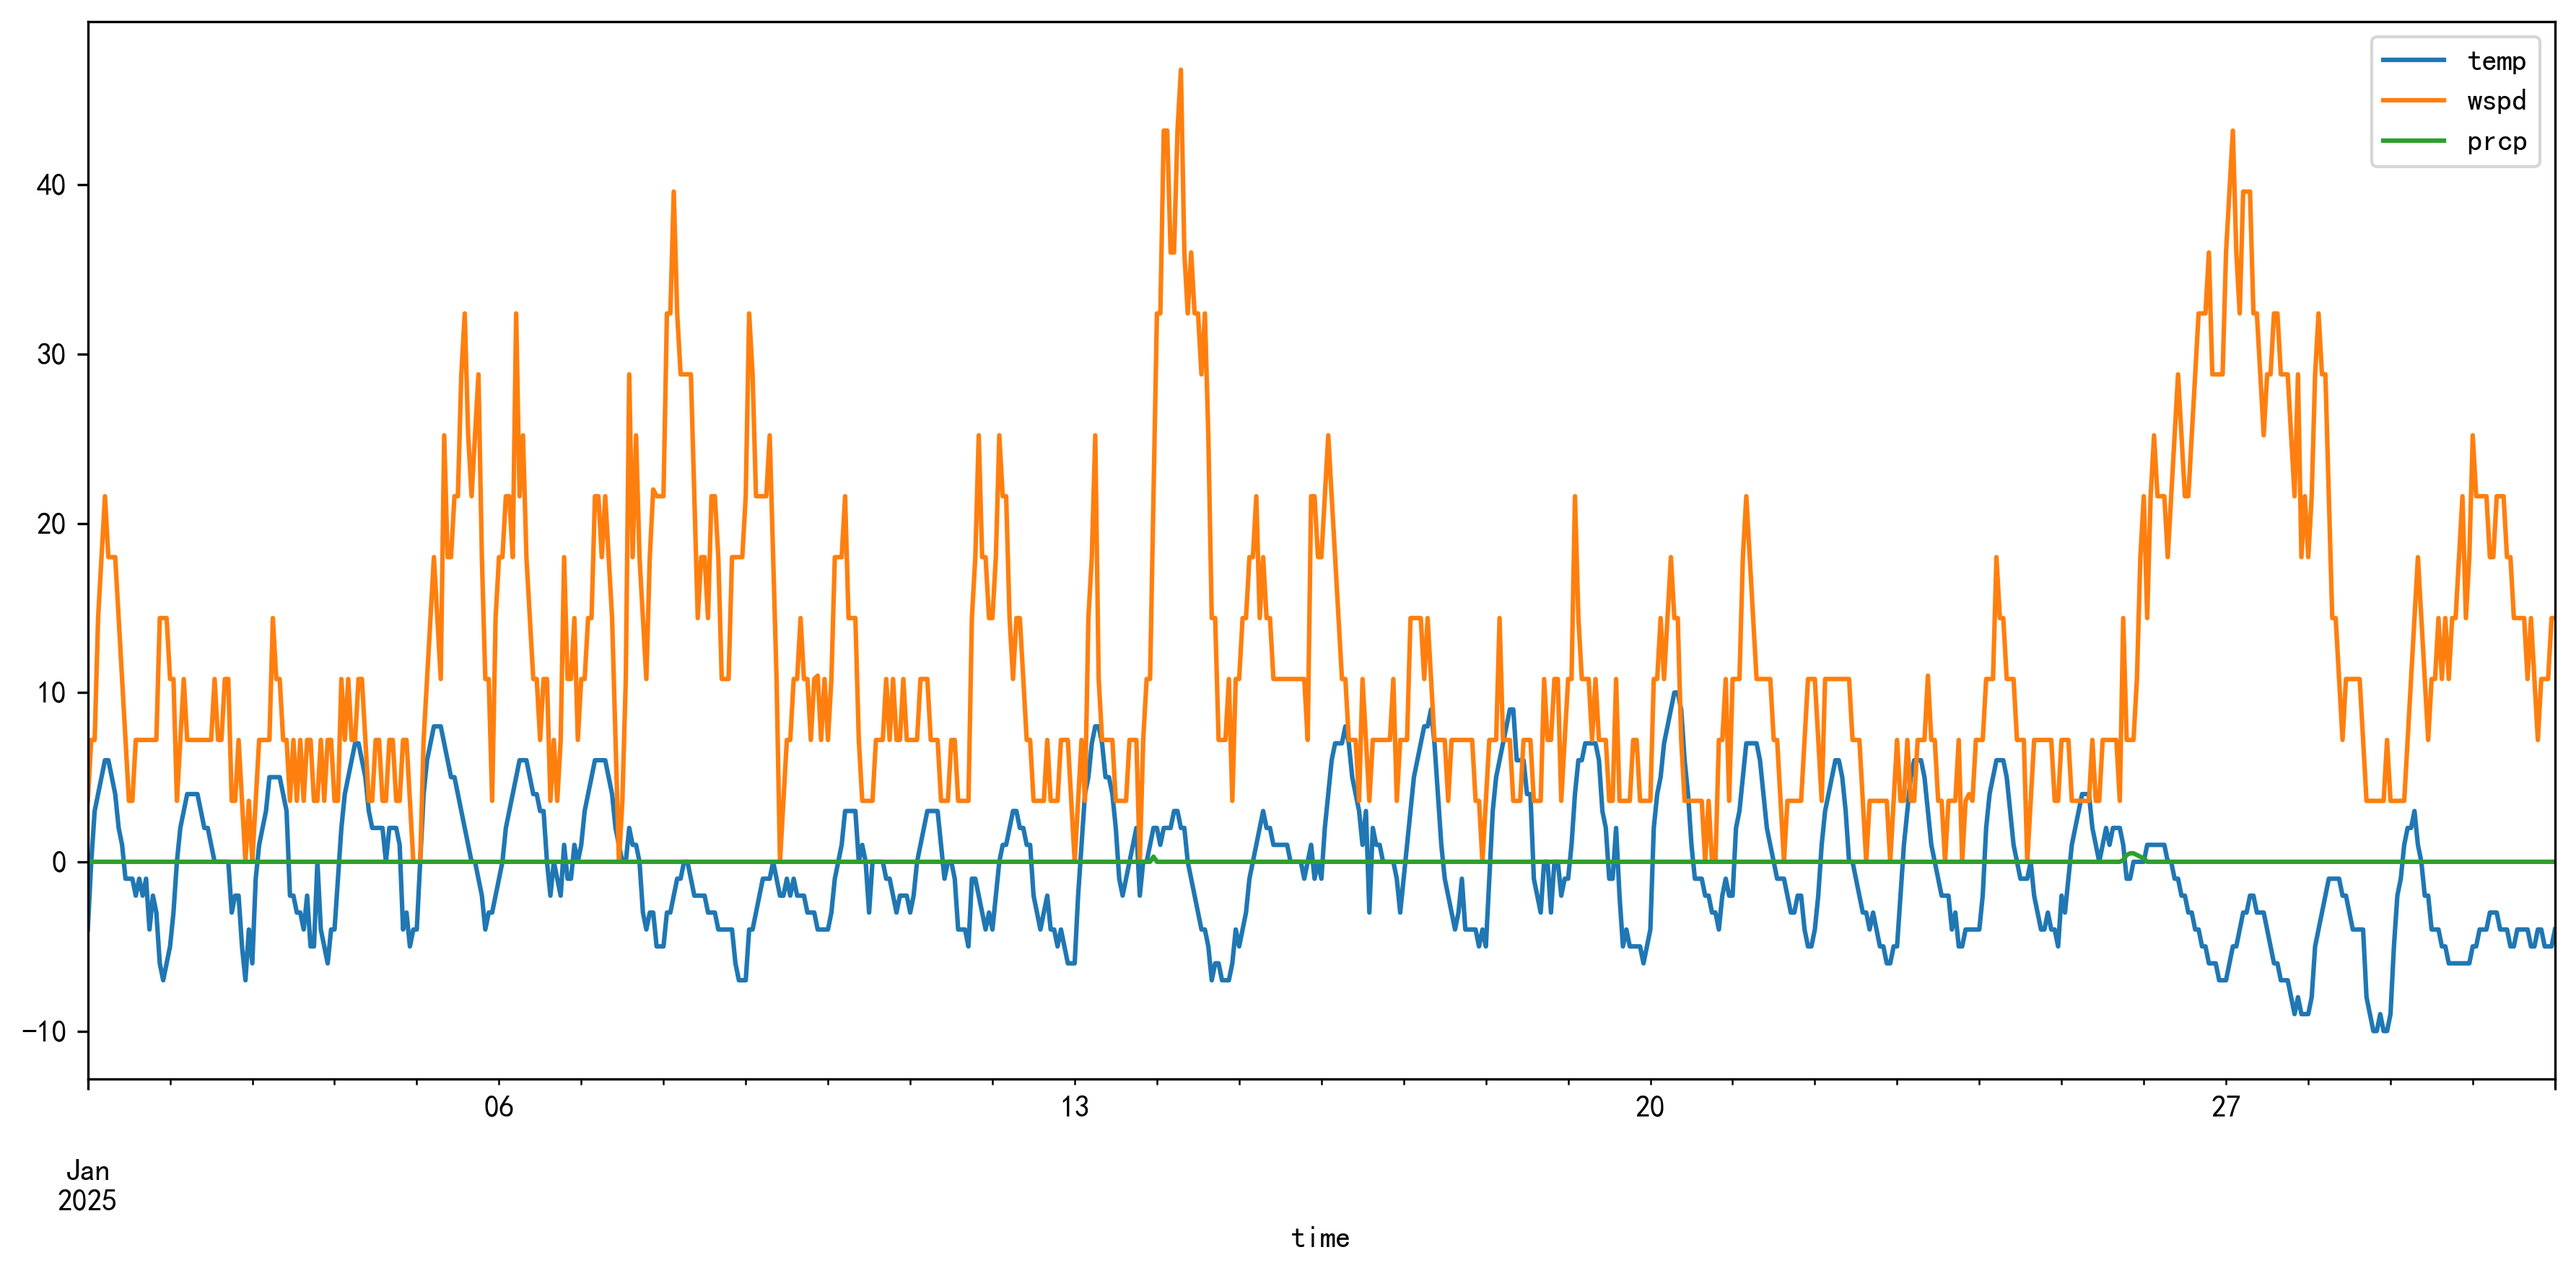
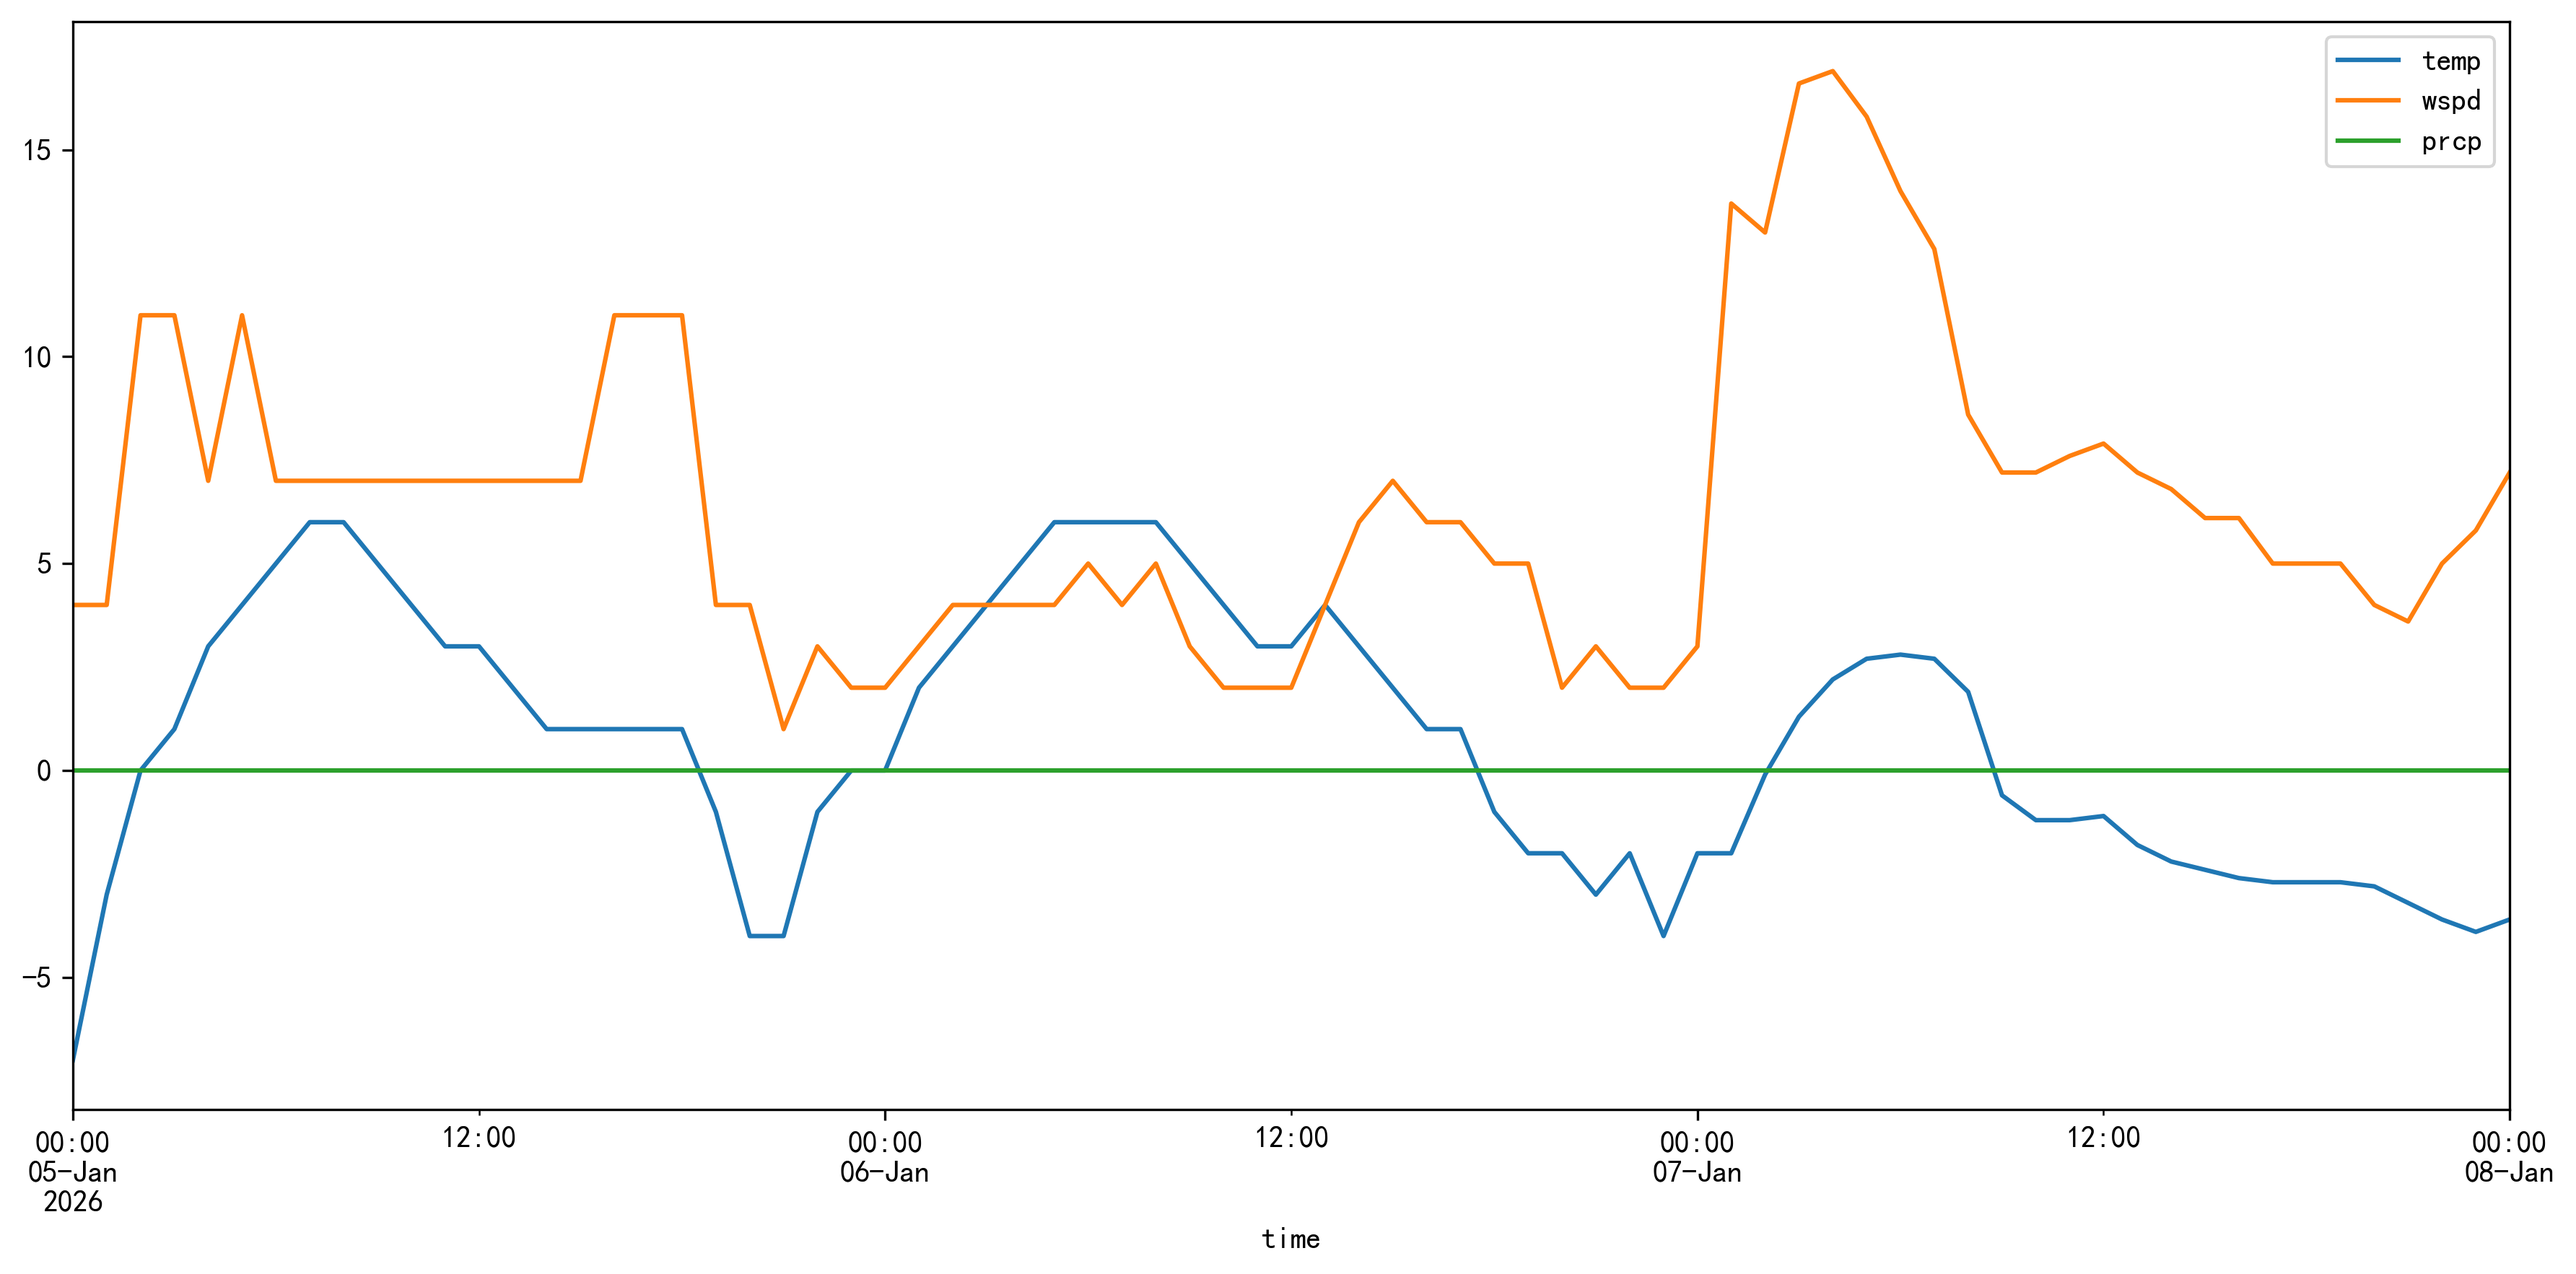
daily

diff --git a/utils/memestat_helper.py b/utils/memestat_helper.py
@@ -1,0 +1,81 @@
+import os
+import csv
+from datetime import datetime, timedelta
+import pandas as pd
+from meteostat import Point, Daily
+
+# 设置目标城市的经纬度（示例：北京 北纬39.9042，东经116.4074）
+TARGET_LOCATION = Point(39.9042, 116.4074)
+# CSV 文件保存路径
+CSV_FILE_PATH = "weather_data.csv"
+
+def get_and_save_weather_data():
+    """
+    获取天气数据并增量保存到CSV文件
+    首次运行获取最近两年数据，后续运行只获取增量日期数据
+    """
+    # 1. 确定数据获取的起始和结束日期
+    end_date = datetime.now().date()  # 结束日期为当前日期
+    start_date = None
+
+    # 检查CSV文件是否存在，判断是否需要增量更新
+    if os.path.exists(CSV_FILE_PATH):
+        try:
+            # 读取已有数据，获取最新日期
+            df = pd.read_csv(CSV_FILE_PATH)
+            # 确保日期列是datetime格式
+            df['time'] = pd.to_datetime(df['time']).dt.date
+            # 获取已有数据的最大日期
+            max_exist_date = df['time'].max()
+            # 增量起始日期为已有最大日期的次日
+            start_date = max_exist_date + timedelta(days=1)
+            
+            # 如果起始日期大于结束日期，说明数据已是最新，无需更新
+            if start_date > end_date:
+                print("当前天气数据已是最新，无需更新！")
+                return
+            print(f"检测到已有数据，将获取 {start_date} 至 {end_date} 的增量数据")
+        except Exception as e:
+            print(f"读取已有CSV文件失败，将重新获取最近两年数据，错误信息：{e}")
+            # 重新设置起始日期为两年前
+            start_date = end_date - timedelta(days=365*2)
+    else:
+        # 文件不存在，获取最近两年数据
+        start_date = end_date - timedelta(days=365*2)
+        print(f"未检测到CSV文件，将获取 {start_date} 至 {end_date} 的天气数据")
+
+    # 2. 使用meteostat获取天气数据
+    try:
+        # 转换为meteostat需要的datetime对象
+        start_datetime = datetime.combine(start_date, datetime.min.time())
+        end_datetime = datetime.combine(end_date, datetime.min.time())
+        
+        # 获取每日天气数据
+        data = Daily(TARGET_LOCATION, start_datetime, end_datetime)
+        data = data.fetch()  # 转换为DataFrame
+        
+        if data.empty:
+            print("未获取到任何天气数据！")
+            return
+        
+        # 重置索引（date会从索引变为列）
+        data.reset_index(inplace=True)
+        # 格式化日期列（确保格式统一）
+        data['time'] = data['time'].dt.date
+        
+        # 3. 保存/追加数据到CSV文件
+        if os.path.exists(CSV_FILE_PATH):
+            # 追加模式，不写入表头
+            data.to_csv(CSV_FILE_PATH, mode='a', header=False, index=False, quoting=csv.QUOTE_ALL)
+            print(f"成功追加 {len(data)} 条天气数据到 {CSV_FILE_PATH}")
+        else:
+            # 新建文件，写入表头
+            data.to_csv(CSV_FILE_PATH, mode='w', header=True, index=False, quoting=csv.QUOTE_ALL)
+            print(f"成功新建文件并写入 {len(data)} 条天气数据到 {CSV_FILE_PATH}")
+            
+    except Exception as e:
+        print(f"获取/保存天气数据失败，错误信息：{e}")
+
+# 测试调用
+if __name__ == "__main__":
+    get_and_save_weather_data()

diff --git a/utils/weather_helper.py b/utils/weather_helper.py
@@ -1,12 +1,33 @@
-import json
+# import json
+#
+# import requests
+# def get_weather():
+#     api_key = "ad723c66942efea536d7b3de297b80e7"  # 需注册获取
+#     # 有免费额度，但需要绑定信用卡支付
+#     url = f"https://api.openweathermap.org/data/3.0/onecall/day_summary?lat=39.099724&lon=-94.578331&date=2024-03-04&appid={api_key}"
+#     response = requests.get(url)
+#     data = response.json()
+#     # https://openweathermap.org/api/one-call-3#history_daily_aggregation
+#     print(json.dumps(data))
+# get_weather()
 
-import requests
-def get_weather():
-    api_key = "ad723c66942efea536d7b3de297b80e7"  # 需注册获取
-    # 有免费额度，但需要绑定信用卡支付
-    url = f"https://api.openweathermap.org/data/3.0/onecall/day_summary?lat=39.099724&lon=-94.578331&date=2024-03-04&appid={api_key}"
-    response = requests.get(url)
-    data = response.json()
-    # https://openweathermap.org/api/one-call-3#history_daily_aggregation
-    print(json.dumps(data))
-get_weather()
+import urllib, urllib3, sys, uuid
+import ssl
+
+
+host = 'https://ali-weather.showapi.com'
+path = '/weatherhistory'
+method = 'GET'
+appcode = '4e48a327e1504f5c95c670389e0634e4'
+querys = 'areaCode=&area=深圳&month=&startDate=20240101&endDate=20260101'
+bodys = {}
+url = host + path + '?' + querys
+
+http = urllib3.PoolManager()
+headers = {
+    'Authorization': 'APPCODE ' + appcode
+}
+response = http.request('GET', url, headers=headers)
+content = response.data.decode('utf-8')
+if (content):
+    print(content)

diff --git a/weather_query.py b/weather_query.py
@@ -8,8 +8,8 @@ plt.rcParams['axes.unicode_minus'] = False
 location = Point(39.9042, 116.4074)
 
 # 获取2023年1月1日到1月31日的数据
-start = datetime(2025, 1, 1)
-end = datetime(2025, 1, 31)
+start = datetime(2026, 1, 5)
+end = datetime(2026, 1, 8)
 
 data = Daily(location, start, end)
 data = data.fetch()
